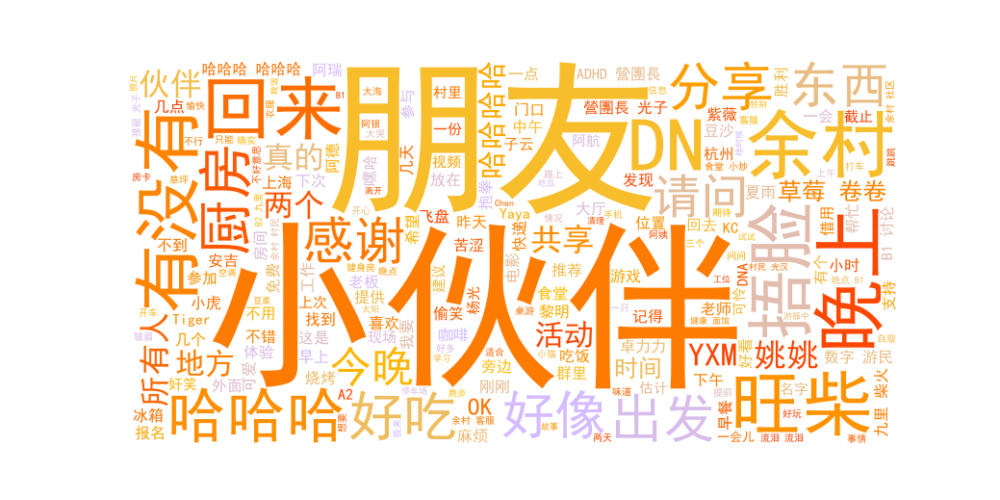
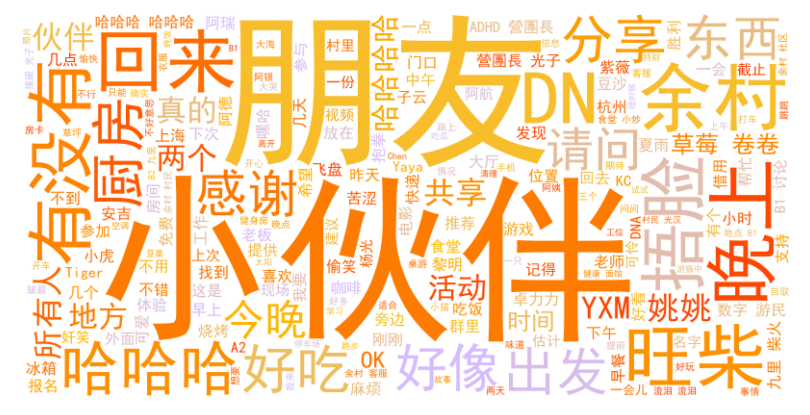
set

diff --git a/src/components/KeywordStatsCard.tsx b/src/components/KeywordStatsCard.tsx
@@ -17,35 +17,34 @@ export default function KeywordStatsCard() {
 
   return (
     <div className="bg-white rounded-lg shadow-md p-6">
-      <div className="flex justify-between items-center mb-4">
-        <h2 className="text-xl font-semibold text-gray-800">在地群聊天关键词统计</h2>
-        <span className="text-xs text-gray-500">统计周期 2023-5-13 至 2024-9-13</span>
+      <h2 className="text-xl font-semibold text-gray-800 mb-4">在地群聊天关键词统计</h2>
+      
+        <div className="flex justify-between items-center mb-4">
+          <div className="flex space-x-2">
+            {dateRanges.map((range) => (
+              <button
+                key={range}
+                className={`px-3 py-1 text-sm rounded-full ${
+                  selectedRange === range
+                    ? 'bg-[#F1F3F7] text-[#6D758F]'
+                    : 'bg-transparent text-[#6D758F]'
+                }`}
+                onClick={() => setSelectedRange(range)}
+              >
+                {range}
+              </button>
+            ))}
+          </div>
+          <span className="text-xs text-gray-500">统计周期 2023-5-13 至 2024-9-13</span>
       </div>
-      <div className="flex items-center justify-between mb-4">
-        <div className="flex space-x-2">
-          {dateRanges.map((range) => (
-            <button
-              key={range}
-              className={`px-3 py-1 text-sm rounded-full ${
-                selectedRange === range
-                  ? 'bg-[#F1F3F7] text-[#6D758F]'
-                  : 'bg-transparent text-[#6D758F]'
-              }`}
-              onClick={() => setSelectedRange(range)}
-            >
-              {range}
-            </button>
-          ))}
-        </div>
-      </div>
-      <div className="mb-4">
+      <div className="mb-4 w-full">
         <Image
           src={getImageSrc()}
           alt="关键词词云"
-          width={700}
-          height={400}
+          width={800}
+          height={450}
           layout="responsive"
-          className="rounded-lg"
+          className="rounded-base"
         />
       </div>
       <div>

diff --git a/src/components/ChatFrequencyCard.tsx b/src/components/ChatFrequencyCard.tsx
@@ -48,24 +48,25 @@ export default function ChatFrequencyCard() {
   return (
     <div className="bg-white rounded-lg shadow-md p-4 sm:p-6">
       <h2 className="text-xl font-semibold mb-4 text-gray-800">在地群聊天记录统计</h2>
-      <div className="flex flex-col sm:flex-row sm:items-center sm:justify-between mb-4">
-        <div className="flex space-x-2 mb-2 sm:mb-0">
-          {dateRanges.map((range) => (
-            <button
-              key={range}
-              className={`px-3 py-1 text-sm rounded-full ${
-                selectedRange === range
-                  ? 'bg-[#F1F3F7] text-[#6D758F]'
-                  : 'bg-transparent text-[#6D758F]'
-              }`}
-              onClick={() => setSelectedRange(range)}
-            >
-              {range}
-            </button>
-          ))}
+
+        <div className="flex justify-between items-center mb-4">
+          <div className="flex space-x-2">
+            {dateRanges.map((range) => (
+              <button
+                key={range}
+                className={`px-3 py-1 text-sm rounded-full ${
+                  selectedRange === range
+                    ? 'bg-[#F1F3F7] text-[#6D758F]'
+                    : 'bg-transparent text-[#6D758F]'
+                }`}
+                onClick={() => setSelectedRange(range)}
+              >
+                {range}
+              </button>
+            ))}
+          </div>
+          <span className="text-xs text-gray-500 sm:text-right">统计周期 2023-5-13 至 2024-9-13</span>
         </div>
-        <span className="text-xs text-gray-500">统计周期 2023-5-13 至 2024-9-13</span>
-      </div>
       <div className="grid grid-cols-2 gap-3 sm:gap-6 mb-6">
         <StatCard icon={<FiMessageSquare className="w-6 h-6 text-blue-500" />} title="在地群聊天条数" value={currentData.totalMessages} />
         <StatCard icon={<FiFileText className="w-6 h-6 text-green-500" />} title="总文字数" value={currentData.totalWords} />

diff --git a/src/components/CommunityActivityCard.tsx b/src/components/CommunityActivityCard.tsx
@@ -65,24 +65,24 @@ const CommunityActivityCard: React.FC = () => {
 
   return (
     <div className="bg-white rounded-lg shadow-md p-6">
+      <h2 className="text-xl font-semibold text-gray-800 mb-4">社区活动数据统计</h2>
       <div className="flex justify-between items-center mb-4">
-        <h2 className="text-xl font-semibold text-gray-800">社区活动数据统计</h2>
+        <div className="flex space-x-2">
+          {dateRanges.map((range) => (
+            <button
+              key={range}
+              className={`px-3 py-1 text-sm rounded-full ${
+                selectedRange === range
+                  ? 'bg-[#F1F3F7] text-[#6D758F]'
+                  : 'bg-transparent text-[#6D758F]'
+              }`}
+              onClick={() => setSelectedRange(range)}
+            >
+              {range}
+            </button>
+          ))}
+        </div>
         <span className="text-xs text-gray-500">统计周期 2023-5-13 至 2024-9-13</span>
-      </div>
-      <div className="flex space-x-2 mb-4">
-        {dateRanges.map((range) => (
-          <button
-            key={range}
-            className={`px-3 py-1 text-sm rounded-full ${
-              selectedRange === range
-                ? 'bg-[#F1F3F7] text-[#6D758F]'
-                : 'bg-transparent text-[#6D758F]'
-            }`}
-            onClick={() => setSelectedRange(range)}
-          >
-            {range}
-          </button>
-        ))}
       </div>
       <div className="grid grid-cols-2 gap-4 mb-6">
         <div className="rounded-lg p-4 border border-[#B4B9C9]">
